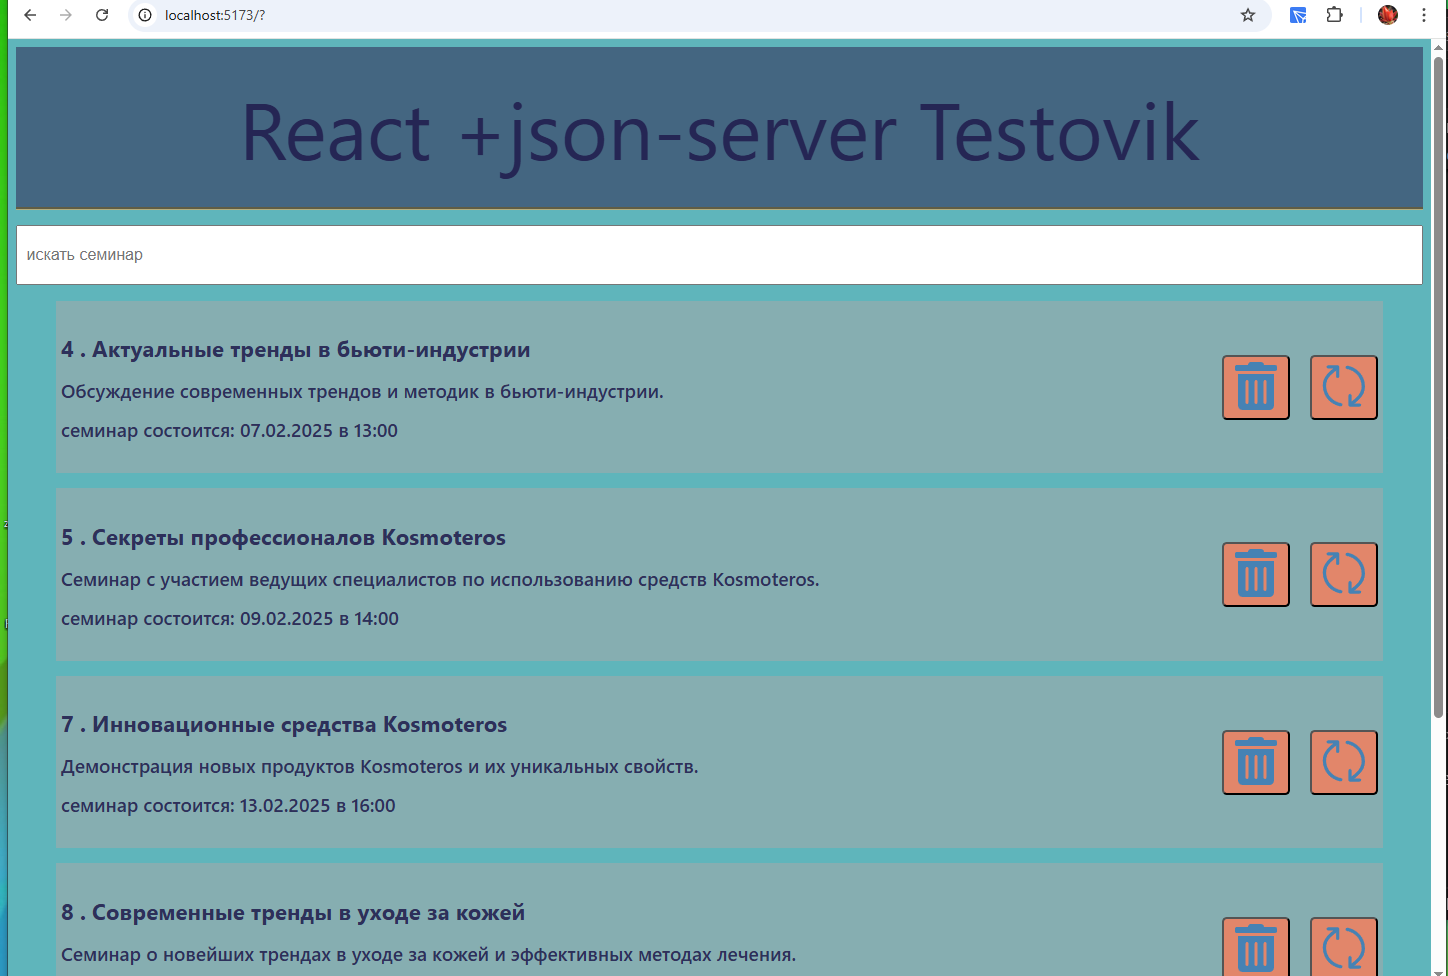
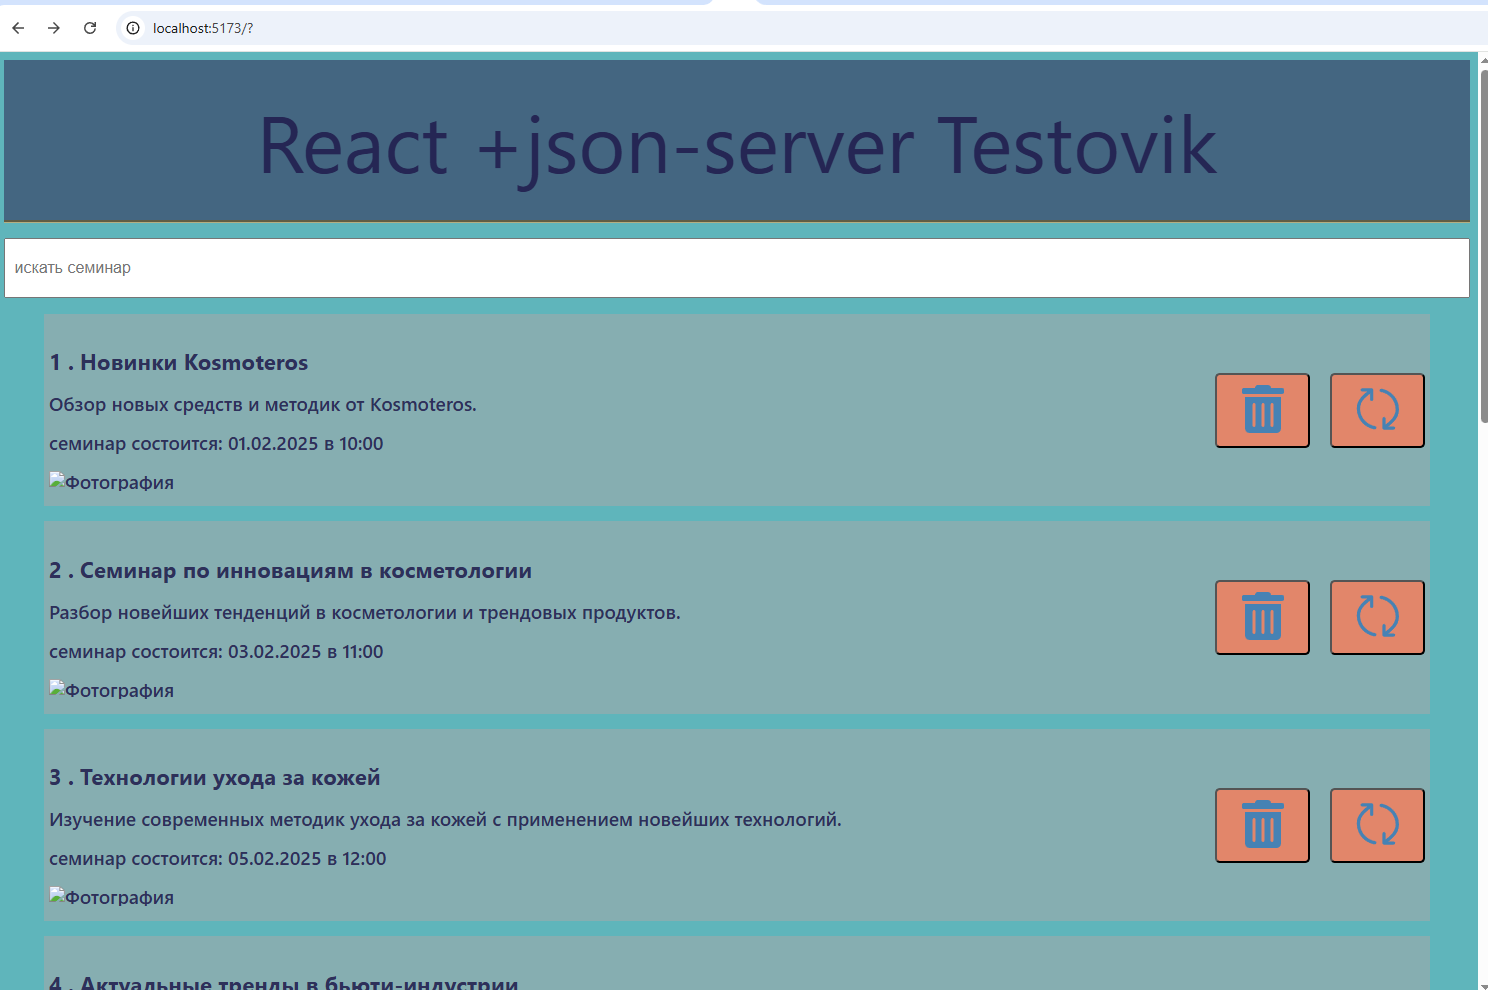
id error in modaluppdateItem

Changed region(s): [[0.0, 0.0, 1.0, 1.0]]

diff --git a/testovik/src/component/ModalUpdateItem.jsx b/testovik/src/component/ModalUpdateItem.jsx
@@ -3,24 +3,28 @@ import '../css/ModalPopup.css';
 
 export const ModalUpdateItem = ({ updateOpen, item, updateClose, handleSubmit }) => {
   const inputRef = useRef();
+  const [itemId, setItemId] = useState(item?.id || '');
   const [itemTitle, setItemTitle] = useState(item?.title || '');
   const [itemDescription, setItemDescription] = useState(item?.description || '');
-  const [itemData, setItemData] = useState(item?.date || '');
+  const [itemDate, setItemDate] = useState(item?.date || '');
   const [itemTime, setItemTime] = useState(item?.time || '');
   const [itemPhoto, setItemPhoto] = useState(item?.photo || '');
-  const [updateddItem, setUpdateddItem] = useState({
-    title: "", description: "",date: "", time: "",photo: "",});
+  // const [updateddItem, setUpdateddItem] = useState({
+  //   title: "", description: "",date: "", time: "",photo: "",});
   const [errors, setErrors] = useState({
     title: '', description: '', date: '', time: '', photo: "",});
 
   // Автоматическая фокусировка на инпуте и обновление состояний
   useEffect(() => {
-    if (updateOpen && inputRef.current) {
-      inputRef.current.focus();
+    if (updateOpen  ) {
+      // inputRef.current.focus();
     }
+ 
+    // console.log('useffect', item)
+    setItemId(item?.id)
     setItemTitle(item?.title || '');
     setItemDescription(item?.description || '');
-    setItemData(item?.date || '');
+    setItemDate(item?.date || '');
     setItemTime(item?.time || '');
     setItemPhoto(item?.photo || '')
   }, [updateOpen, item]);
@@ -61,14 +65,14 @@ export const ModalUpdateItem = ({ updateOpen, item, updateClose, handleSubmit })
 
     // Проверка даты (формат DD.MM.YYYY)
     const dateRegex = /^\d{2}\.\d{2}\.\d{4}$/;
-    if (!itemData.trim()) {
+    if (!itemDate.trim()) {
       newErrors.date = 'Дата обязательна для заполнения';
       isValid = false;
-    } else if (!dateRegex.test(itemData)) {
+    } else if (!dateRegex.test(itemDate)) {
       newErrors.date = 'Дата должна быть в формате DD.MM.YYYY';
       isValid = false;
     } else {
-      const [day, month, year] = itemData.split('.').map(Number);
+      const [day, month, year] = itemDate.split('.').map(Number);
       if (!isValidDate(day, month, year)) {
         newErrors.date = 'Некорректная дата';
         isValid = false;
@@ -90,7 +94,7 @@ export const ModalUpdateItem = ({ updateOpen, item, updateClose, handleSubmit })
   };
 
   // Обработка отправки формы
-  const handleFormSubmit = (e) => {
+  const handleFormSubmit =async (e) => {
     e.preventDefault();
     // Проверяем валидацию
     if (!validateForm()) {
@@ -99,28 +103,35 @@ export const ModalUpdateItem = ({ updateOpen, item, updateClose, handleSubmit })
     // Создаем обновленный объект
     const updatedItem = {
       ...item,
-      id:item.id,
+      id:itemId,
       title: itemTitle,
       description: itemDescription,
-      date: itemData,
+      date: itemDate,
       time: itemTime,
       photo:itemPhoto,
     };
     
-    setUpdateddItem(updatedItem) ;
-    console.log('updateddItem',updateddItem)
-    handleSubmit(item.id, updatedItem); // Передаем обновленные данные
-    
-    updateClose(); // Закрываем модальное окно
+  //  setUpdateddItem(updatedItem) ;
+    // console.log('updateddItem',updateddItem)
+    try {
+      await handleSubmit(item.id, updatedItem); // Дождитесь завершения handleSubmit
+      updateClose(); // Закрываем модальное окно только после успешной отправки
+    } catch (error) {
+      console.error("Ошибка при обновлении элемента:", error);
+    }
   };
    
   return (
     <>
-      {updateOpen &&  item.id &&(
+      {updateOpen &&  item  &&(
         <div className="modal">
           <div className="modal-wrapped">
             <div className="modal-content">
-              <form id="updateItem" className='updateForm' onSubmit={handleFormSubmit}>
+              <form id="updateItem" key={item.id} className='updateForm' onSubmit={handleFormSubmit}>
+                <button  className='noButton'
+                          onClick ={()=> updateClose(false)}>
+                          X
+                        </button>   
                 <h3>Редактирование семинара</h3>
 
                 {/* Поле "Название" */}
@@ -134,7 +145,9 @@ export const ModalUpdateItem = ({ updateOpen, item, updateClose, handleSubmit })
                     placeholder='изменить название'
                     required
                     value={itemTitle}
-                    onChange={(e) => setItemTitle(e.target.value)}
+                    onChange={(e) => {setItemTitle(e.target.value)
+                                     setItemId(item.id)}
+                    }
                   />
                  <p> {errors.title && <span className="error show">{errors.title}</span>}</p>
                 </div>
@@ -161,8 +174,8 @@ export const ModalUpdateItem = ({ updateOpen, item, updateClose, handleSubmit })
                     id='updateDate'
                     placeholder='дата (DD.MM.YYYY)'
                     required
-                    value={itemData}
-                    onChange={(e) => setItemData(e.target.value)}
+                    value={itemDate}
+                    onChange={(e) => setItemDate(e.target.value)}
                   />
                   <p>{errors.date && <span className="error show">{errors.date}</span>}</p>
                 </div>
@@ -197,10 +210,7 @@ export const ModalUpdateItem = ({ updateOpen, item, updateClose, handleSubmit })
                 </div>
                 {/* Кнопка отправки */}
                 <div className='modal-div'>
-                        <button  className='noButton'
-                          onClick ={()=> updateClose(false)}>
-                           ОТМЕНА
-                        </button>
+                         
                         <button type='submit' aria-label='update item' >
                           ИЗМЕНИТЬ
                         </button>

diff --git a/testovik/src/component/Content.jsx b/testovik/src/component/Content.jsx
@@ -71,7 +71,7 @@ const Content = ({items=[],  handleDelete, handleSubmit  }) => {
               <ModalUpdateItem 
               updateOpen={modalUpdateOpen}
               updateClose={()=> setModalUpdateOpen(false)}
-              item  = {itemById } 
+              item   = { itemById   } 
               handleSubmit={handleSubmit}
               /> 
               </div>
